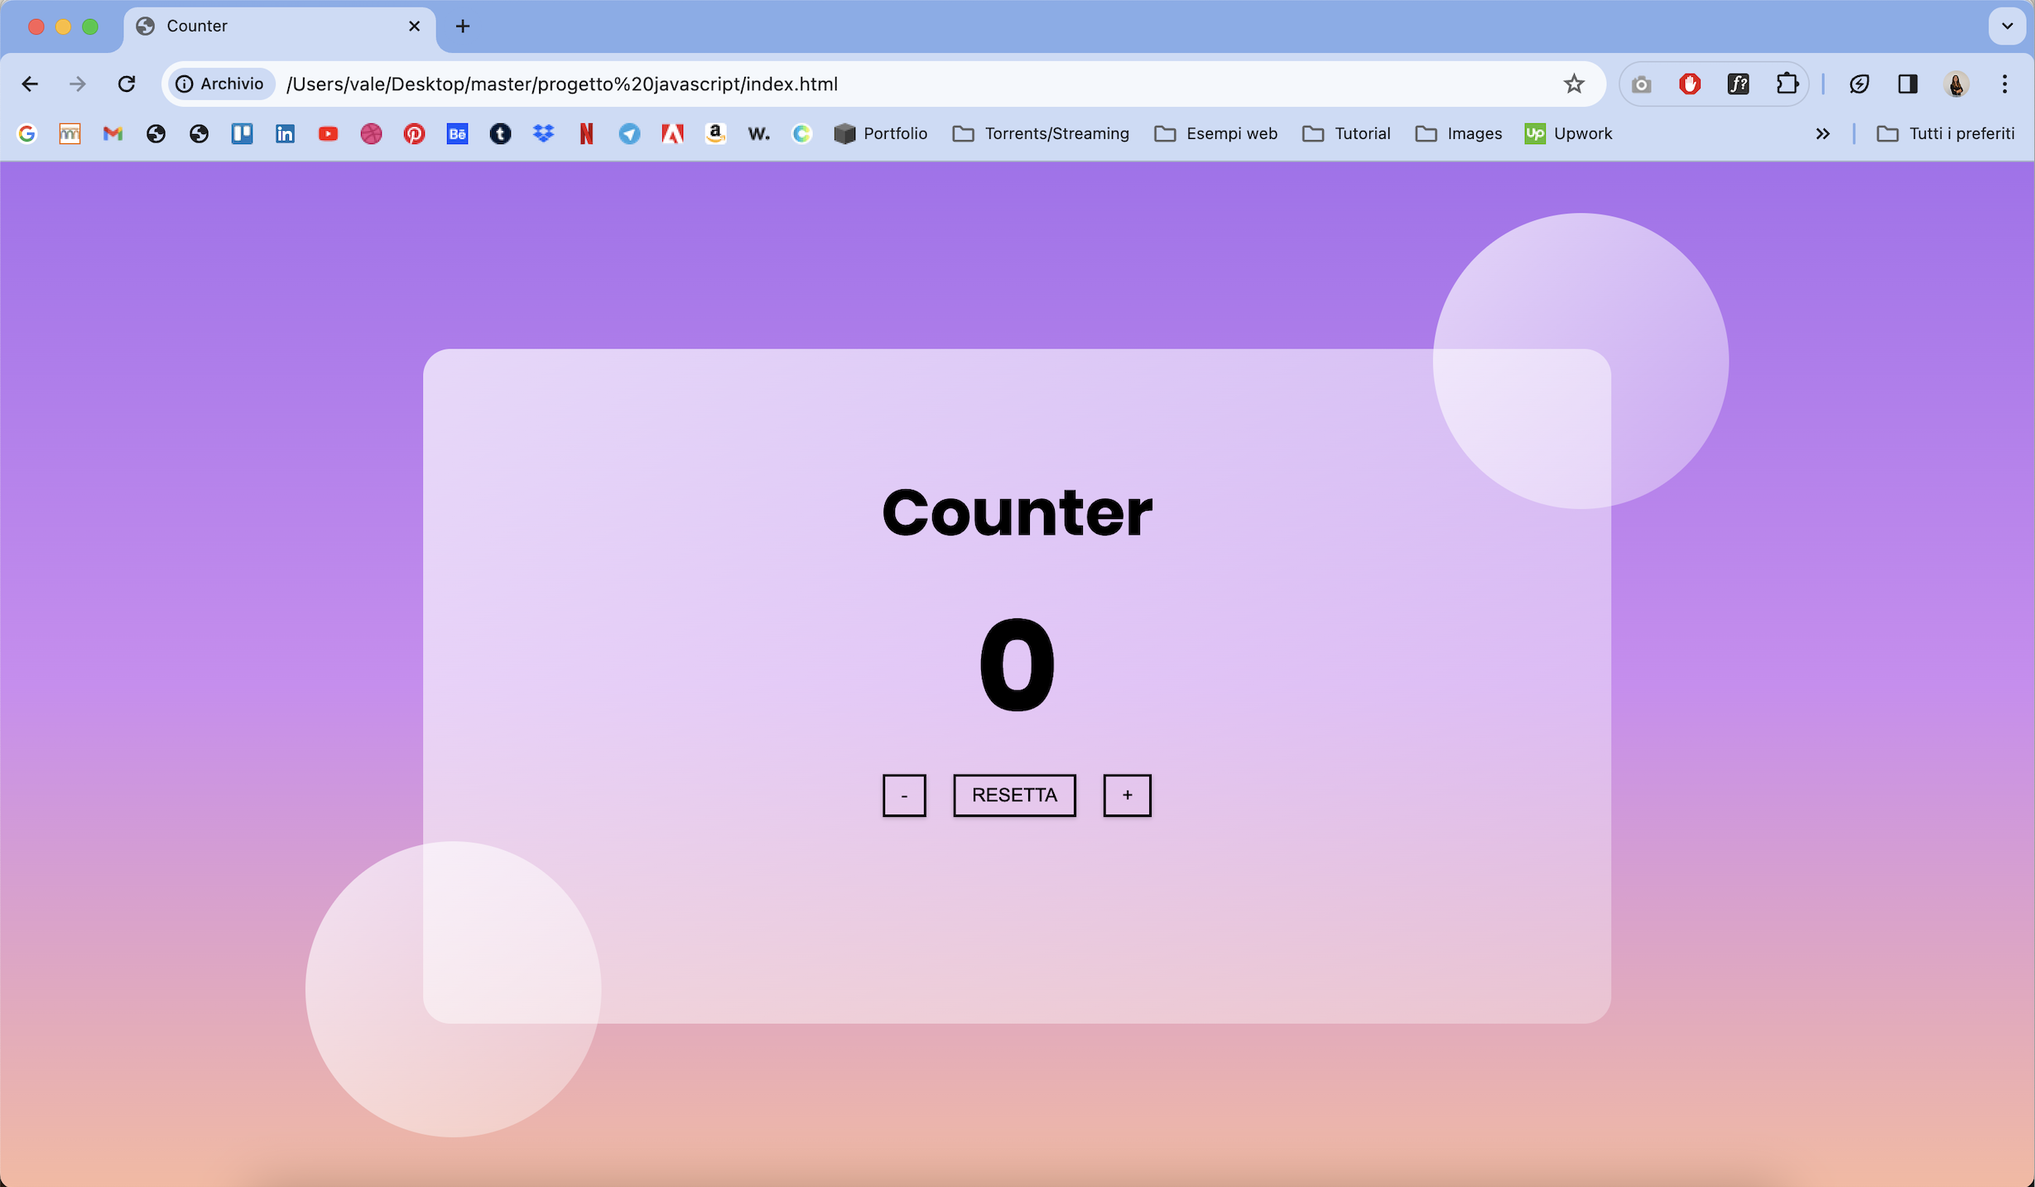
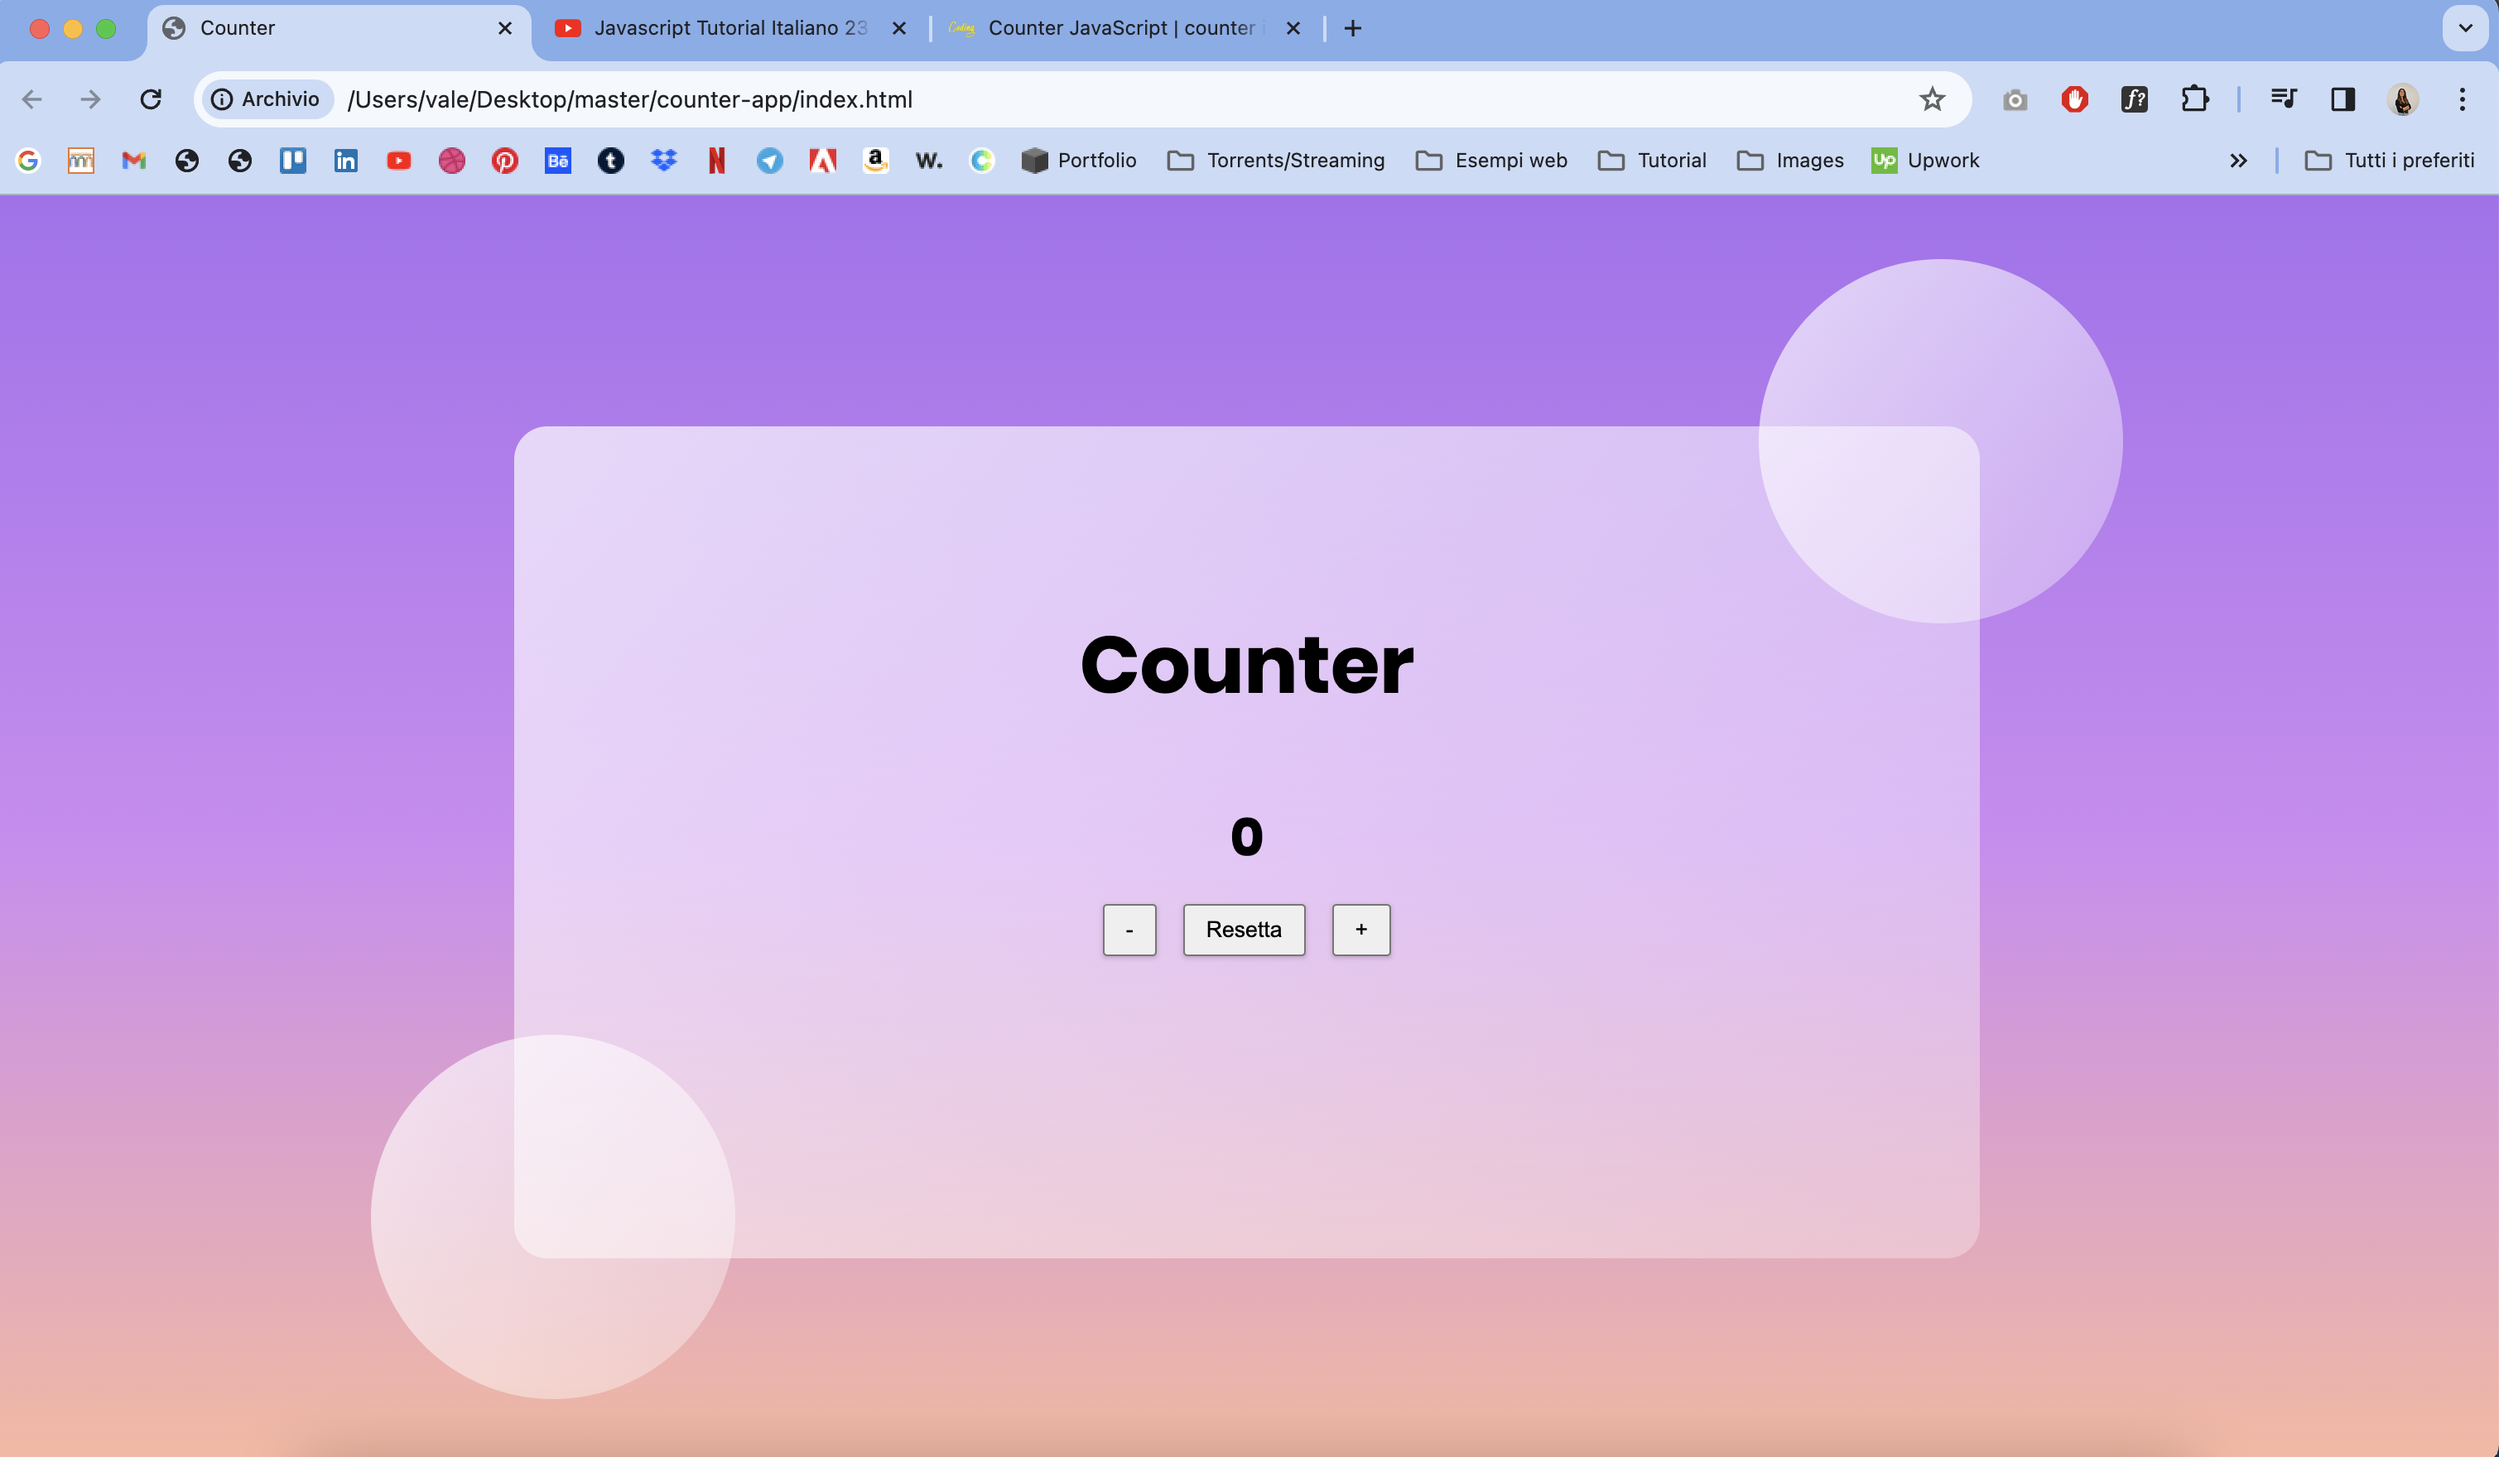
aggiunta funziona counter

diff --git a/app.js b/app.js
@@ -1,6 +1,3 @@
-
-
-
 const div = document.querySelector('div');
 const h1 = document.createElement('h1');
 h1.textContent = '0';
@@ -36,29 +33,22 @@ buttonIncrease.style.padding = '0.375rem 0.75rem';
 buttonIncrease.style.boxShadow = '0 1px 3px rgb(0,0,0,0.2)';
 buttonIncrease.style.margin = '0.5rem';
 
-const value = document.querySelector("h1");
-const btns = document.querySelectorAll("button");
+let value = 0;
 
-const btn = document.querySelector('button');
+buttonIncrease.addEventListener('click', function(add){
+    value++;
+    h1.innerHTML = value;
+    h1.style.color = 'green';
+});
 
-btns.forEach(function() {
-    btn.addEventListener("click", function(e){
-        const styles = e.currentTarget.classList;
-        if(styles.contains("decrease")){
-            count--;
-        }else if(styles.contains("increase")) {
-            count++;
-        }else{
-            count = 0;
-        }
+buttonDecrease.addEventListener('click', function(add){
+    value--;
+    h1.innerHTML = value;
+    h1.style.color = 'red';
+});
 
-        if(count > 0) {
-            value.style.color = "green";
-        }else if(count < 0) {
-            value.style.color = "red";
-        }else if(count == 0){
-            value.style.color = "#000";
-        }
-        value.textContent = count;
-    });
+buttonReset.addEventListener('click', function(add){
+    value = 0;
+    h1.innerHTML = value;
+    h1.style.color = 'black';
 });
